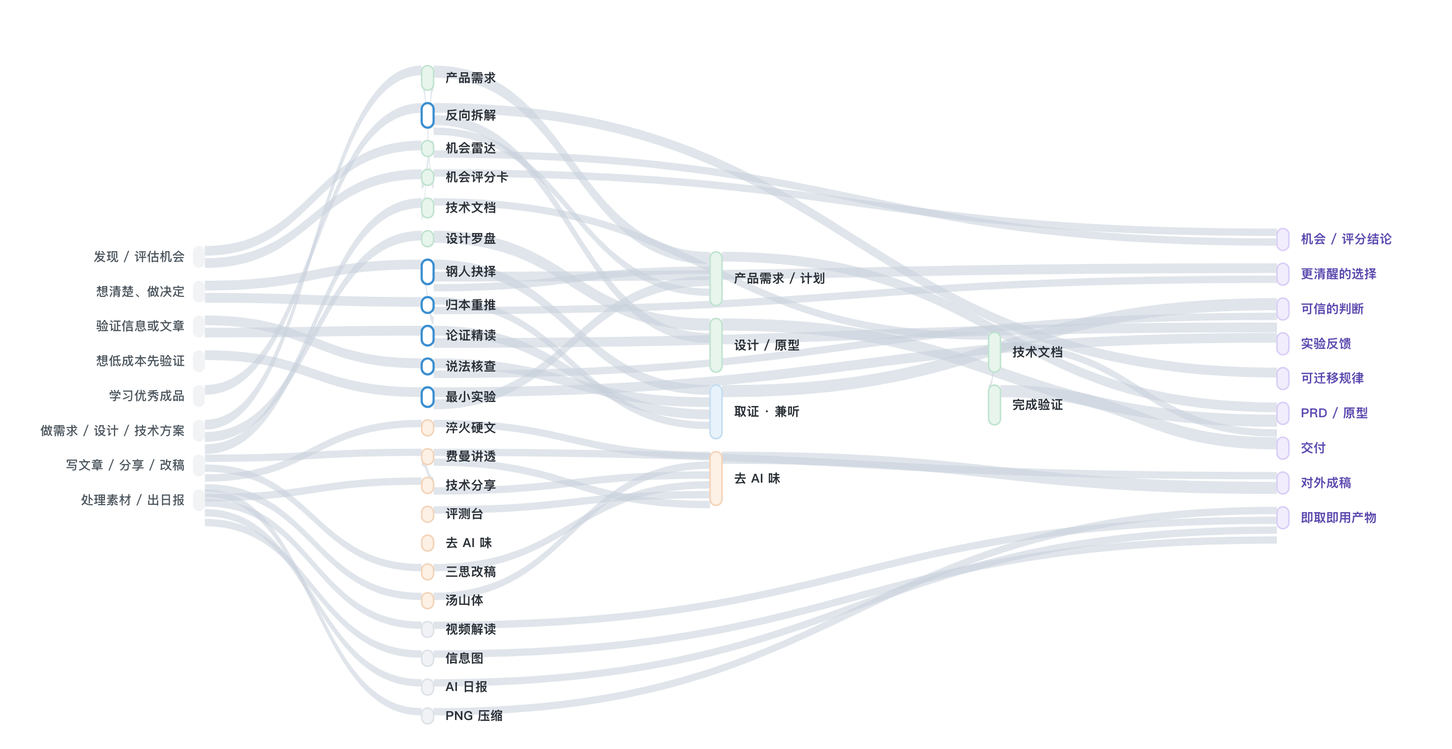
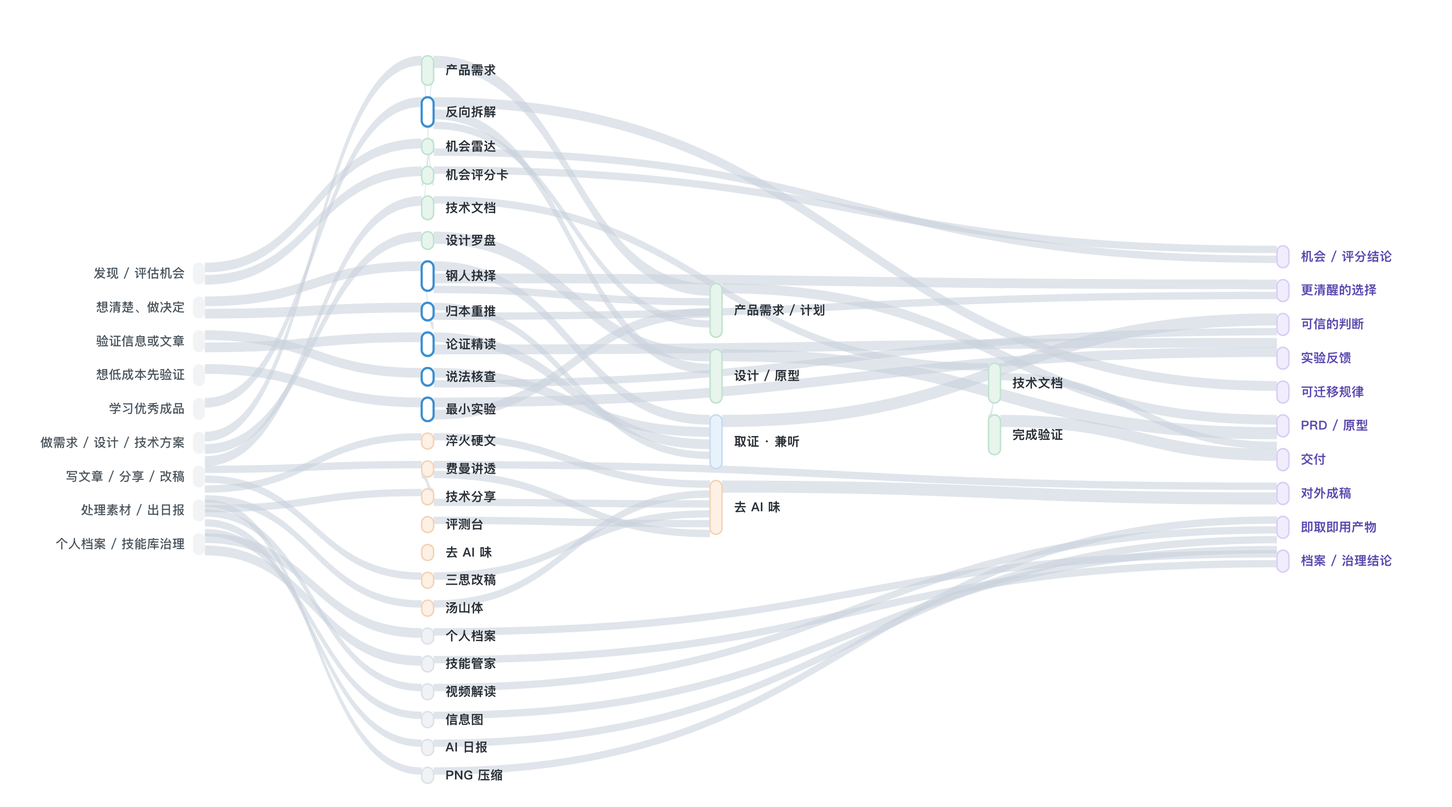
docs(repo): 补全技能图谱节点、修正同步规则文档并修复 README.en 死链

Changed region(s): [[0.0312, 0.0617, 0.9661, 0.9869]]

diff --git a/docs/skill-map.html b/docs/skill-map.html
@@ -110,7 +110,7 @@
 </div>
 
 <div class="layout">
-  <div class="card"><svg id="chart" viewBox="0 0 1460 740"></svg></div>
+  <div class="card"><svg id="chart" viewBox="0 0 1460 810"></svg></div>
   <aside class="aside" id="aside">
     <div class="hint">
       <b>这张图怎么读</b><br>
@@ -136,7 +136,8 @@ function n(o){N[o.id]=o;}
  ['t_learn','学习优秀成品'],
  ['t_build','做需求 / 设计 / 技术方案'],
  ['t_write','写文章 / 分享 / 改稿'],
- ['t_tool','处理素材 / 出日报']
+ ['t_tool','处理素材 / 出日报'],
+ ['t_meta','个人档案 / 技能库治理']
 ].forEach(([id,label])=>n({id,label,d:0,c:'src'}));
 
 // —— 列 2：技能 ——
@@ -152,7 +153,8 @@ function n(o){N[o.id]=o;}
  ['haohao','去 AI 味','write','exist'],['cuihuo','淬火硬文','write','exist'],
  ['tangshan','汤山体','write','exist'],['talk','技术分享','write','exist'],['haohao-eval','评测台','write','exist'],
  ['png','PNG 压缩','util','exist'],['video','视频解读','util','exist'],
- ['briefing','AI 日报','util','exist'],['infographic','信息图','util','exist']
+ ['briefing','AI 日报','util','exist'],['infographic','信息图','util','exist'],
+ ['me-context','个人档案','util','exist'],['skill-library-keeper','技能管家','util','exist']
 ].forEach(([id,label,c,st])=>n({id,label,d:1,c,status:st}));
 
 // —— 列 3：共用枢纽 ——
@@ -171,7 +173,8 @@ n({id:'vdd',label:'完成验证',d:3,c:'prod'});
 [
  ['o_opp','机会 / 评分结论'],['o_decide','更清醒的选择'],['o_truth','可信的判断'],
  ['o_exp','实验反馈'],['o_rule','可迁移规律'],['o_plan','PRD / 原型'],
- ['o_ship','交付'],['o_write','对外成稿'],['o_tool','即取即用产物']
+ ['o_ship','交付'],['o_write','对外成稿'],['o_tool','即取即用产物'],
+ ['o_meta','档案 / 治理结论']
 ].forEach(([id,label])=>n({id,label,d:4,c:'res'}));
 
 // —— 流：[源, 目标, 权重] ——
@@ -185,6 +188,7 @@ e('t_learn','reverse-teardown',2);
 e('t_build','brief',2);e('t_build','compass',2);e('t_build','engineering-docs',2);
 e('t_write','feynman');e('t_write','sansi');e('t_write','cuihuo');e('t_write','tangshan');e('t_write','talk');
 e('t_tool','png');e('t_tool','video');e('t_tool','briefing');e('t_tool','infographic');
+e('t_meta','me-context',2);e('t_meta','skill-library-keeper',2);
 // 产品主干
 e('radar','scorecard');e('scorecard','o_opp');e('radar','o_opp');
 e('scorecard','brief',2);e('brief','hub_brief',3);e('compass','hub_design',3);
@@ -203,10 +207,11 @@ e('reverse-teardown','o_rule',2);e('reverse-teardown','hub_design',2);e('reverse
 e('talk','feynman');e('feynman','o_write');
 ['cuihuo','tangshan','talk','sansi','haohao-eval'].forEach(x=>e(x,'hub_lint'));
 e('feynman','hub_lint');e('hub_lint','o_write',3);
-// 工具
+// 工具与治理
 ['png','video','briefing','infographic'].forEach(x=>e(x,'o_tool'));
+e('me-context','o_meta');e('skill-library-keeper','o_meta');
 
-const COLX=[200,430,720,1000,1290], NW=12, GAP=13, TOP=66, H=690;
+const COLX=[200,430,720,1000,1290], NW=12, GAP=12, TOP=56, H=770;
 Object.values(N).forEach(x=>{x.in=0;x.out=0;});
 E.forEach(({s,t,w})=>{N[s].out+=w;N[t].in+=w;});
 const cols={};Object.values(N).forEach(x=>(cols[x.d]=cols[x.d]||[]).push(x));
@@ -216,11 +221,11 @@ function order(d){ // 同列按簇纵向分组，减少交叉
   const arr=cols[d];
   if(d===1) arr.sort((a,b)=>rank[a.c]-rank[b.c] || a.label.localeCompare(b.label));
   if(d===0) arr.sort((a,b)=>{
-    const w={t_find:0,t_decide:1,t_verify:1,t_try:1,t_learn:1,t_build:2,t_write:3,t_tool:4};
+    const w={t_find:0,t_decide:1,t_verify:1,t_try:1,t_learn:1,t_build:2,t_write:3,t_tool:4,t_meta:5};
     return w[a.id]-w[b.id];});
   if(d===2) arr.sort((a,b)=>rank[a.c]-rank[b.c]);
   if(d===4) arr.sort((a,b)=>{
-    const w={o_opp:0,o_decide:1,o_truth:1,o_exp:2,o_rule:2,o_plan:3,o_ship:3,o_write:4,o_tool:5};
+    const w={o_opp:0,o_decide:1,o_truth:1,o_exp:2,o_rule:2,o_plan:3,o_ship:3,o_write:4,o_tool:5,o_meta:6};
     return w[a.id]-w[b.id];});
 }
 [0,1,2,3,4].forEach(order);
@@ -317,12 +322,12 @@ const DET={
  'minimum-experiment':['挑最致命的一个假设，设计低成本可逆可证伪试错。','把空想变成一周内见分晓的反馈。','拿到本周能做、做砸能退的动作。','怎么算输说不清，或等于先把产品做出来。'],
  'reverse-teardown':['从优秀成品还原结构与关键选择，分清能搬和只适合对方的。','任意环境看到好东西都能带走做法。','能说出"照做3件事"和"千万别搬的点"。','全是"高级/简洁"的夸，没具体改什么。'],
  brief:['把想法/评分转成可验收 PRD、MVP 边界和里程碑。','独立产出能开工的需求计划。','每条功能都有可验证的验收条件。','写成无法验收的愿望清单。'],
- compass:['UI/UX 评审，产出线框、原型和设计规格。','单独完成一轮设计。','原型能点，关键旅程有落点。','只有好看的图，没回答需求落点。'],
+ compass:['内置 9 套高定视觉与原生物理动效工艺包，支持单页直出、盲选与四关评审。','单独完成一轮设计与动效原型。','原型可交互，视觉与动效有统一方向。','只有好看的图，没回答需求落点。'],
  'engineering-docs':['写研发技术方案与决定，按需出图。','独立成文并记录决定代价。','关键决定附事实、假设、代价和回退。','目录全但看不出为什么这么定。'],
  feynman:['一条逻辑链把复杂概念讲透给自己懂。','任意主题讲明白。','外行也能顺着复述。','要点清单和术语堆砌。'],
  sansi:['改成形文档前先通读全文骨架，防补丁式改稿。','小改有投入闸门。','改完全局一致不补丁摞补丁。','只盯一段改，前后矛盾。'],
  haohao:['中文成稿清洗：保事实去机器腔，支持扩展屏蔽表。','对任意成稿 lint。','读着像人写的，事实没丢。','改完没 AI 味但意思也没了。'],
- cuihuo:['技术观点淬成一节一观点的对外硬文。','独立写观点文。','观点立得住、删尽车轱辘话。','气势足但论证空心。'],
+ cuihuo:['把观点写成一节一观点的硬文，或提炼成短手记。','独立写观点文与锻造手记。','观点立得住、删尽车轱辘话。','气势足但论证空心。'],
  tangshan:['面向未来有历史纵深的技术畅想长文。','独立写畅想文。','推演有路径感不喊口号。','宏大词汇堆砌。'],
  talk:['技术分享中长文/演讲稿/slides。','独立做完一场分享。','听众跟得住、有记忆点。','把技术文档念一遍。'],
  'haohao-eval':['盲评、每日召回、门禁评测改稿质量。','独立的改稿评测台。','坏改被召回拦截。','评分指导不了怎么改。'],
@@ -330,6 +335,8 @@ const DET={
  video:['视频转带时间戳关键帧和运动时间线。','任意环境看懂视频。','能定位"第几秒发生了什么"。','只给截图没有时间线。'],
  briefing:['5 分钟 AI/科技日报，事实+判断+机会卡片。','任意环境生成情报简报。','宁缺毋滥、每条有判断。','信息堆砌没有取舍。'],
  infographic:['把关键道理做成"图自己讲清一件事"的信息图。','零依赖渲染高清 SVG/PNG。','图不看正文也能懂那一个点。','装饰配图、图文两张皮。'],
+ 'me-context':['带 L0–L4 敏感分层的可移植个人档案，AI 起草、人确认。','数据与技能分离，跨宿主携带个人背景。','高敏信息默认拦截、档案结构清晰。','未确认擅自写档或泄露高敏层。'],
+ 'skill-library-keeper':['库级治理：准入五问、静态健康体检与外部技能收录裁决。','自动发现技能库位置，零平台强绑定。','新技能不撞车、孤儿与硬绑定被拦下。','未体检就新造轮子或遗漏规则冲突。'],
  hub_proof:['只补会改变决定的外部证据，判冲突、定停止。多个思维技能汇到这里统一取证。','独立做有纪律的检索。','该搜的搜了、冲突解释清、知道何时停。','为全面而乱搜。'],
  hub_brief:['产品需求/计划的汇聚点：评分、钢人结论、实验结果都回流到这里。','—','所有上游判断落成可验收的计划。','判断停在口头，落不了地。'],
  hub_design:['设计/原型汇聚点：反向拆解学来的规律、PRD 都汇到这里。','—','学来的规律真正变成界面。','学归学，做界面时没用上。'],
@@ -357,16 +364,16 @@ const LINE_GUIDE={
    when:'讲透一个概念、改已有稿子、写技术观点硬文、写未来畅想、做技术分享。',
    nodes:[['sansi',1],['feynman',2],['cuihuo',3],['tangshan',3],['talk',3],['haohao-eval',4],['hub_lint',5]],
    branches:[]},
- util:{title:'工具线 · 随取随用',color:'var(--util)',
-   sub:'不参与主流程的独立工具，需要时直接用，直接产出可用产物。',
-   when:'要批量压图、看懂一个视频、出一期 AI 日报、给文章配信息图。',
-   nodes:[['png',1],['video',2],['briefing',3],['infographic',4]],
+ util:{title:'工具与治理线 · 随取随用',color:'var(--util)',
+   sub:'不参与产品主流程的独立工具与个人档案、库级治理技能，需要时直接使用。',
+   when:'要批量压图、看懂视频、出 AI 日报、配信息图、维护个人档案或体检技能库。',
+   nodes:[['png',1],['video',2],['briefing',3],['infographic',4],['me-context',5],['skill-library-keeper',6]],
    branches:[]}
 };
 // 节点在链路上的角色一句话（没有则回退到 DET）
 const LINE_ROLE={
  radar:'扫出有哪些机会/痛点，带来源证据',scorecard:'给想法打分，决定先做哪个',
- brief:'把结论落成可验收的需求和计划',compass:'把需求变成界面原型与设计规格',
+ brief:'把结论落成可验收的需求和计划',compass:'把需求变成高质感界面原型、动效与设计规格',
  'engineering-docs':'形成技术方案与决定，附代价和回退',vdd:'做完前拿出测试/日志等验证证据',
  'reverse-teardown':'从优秀成品学可迁移规律',
  'root-rethink':'怀疑在打补丁时，拆回事实/假设/目标重新推导',
@@ -377,11 +384,13 @@ const LINE_ROLE={
  'minimum-experiment':'用最低成本的可逆实验拿到真实反馈',
  sansi:'改稿前先通读全文骨架，防补丁式改稿',
  feynman:'先把硬概念讲透（也是各文体的讲白助手）',
- cuihuo:'写一节一观点的技术观点硬文',tangshan:'写面向未来的技术畅想长文',
+ cuihuo:'把观点写成一节一观点的硬文，或提炼成短手记',tangshan:'写面向未来的技术畅想长文',
  talk:'做技术分享中长文/演讲稿/slides','haohao-eval':'用盲评和召回给改稿质量把关',
  hub_lint:'共用枢纽：所有成稿统一去机器腔',
  png:'本地批量压缩工程 PNG',video:'把视频转成带时间戳的关键帧',
- briefing:'生成宁缺毋滥的 AI/科技日报',infographic:'把关键道理做成自解释信息图'
+ briefing:'生成宁缺毋滥的 AI/科技日报',infographic:'把关键道理做成自解释信息图',
+ 'me-context':'按 L0–L4 敏感门禁存取可移植个人档案',
+ 'skill-library-keeper':'执行准入五问、全库静态体检与外部技能收录裁决'
 };
 function roleOf(id){return LINE_ROLE[id]||(DET[id]&&DET[id][0])||'';}
 function lineRow(id,idx,branch){
@@ -389,7 +398,7 @@ function lineRow(id,idx,branch){
   const num=branch?'旁':idx;
   return `<div class="lg-row ${branch?'branch':''}" onclick="detail(N['${id}'])">
     <div class="lg-idx" style="background:${branch?'#fff':PAL[x.c][0]};color:${branch?'#8b95a0':'#fff'};border-color:${PAL[x.c][0]}">${num}</div>
-    <div><b>${x.label}</b><span>${branch===true?(LINE_GUIDE[activeLine].branches.find(b=>b[0]==='${id}')||[])[1]||roleOf(id):roleOf(id)}</span></div></div>`;
+    <div><b>${x.label}</b><span>${branch===true?(LINE_GUIDE[activeLine].branches.find(b=>b[0]===id)||[])[1]||roleOf(id):roleOf(id)}</span></div></div>`;
 }
 function renderLine(f){
   activeLine=f;const g=LINE_GUIDE[f];

diff --git a/README.en.md b/README.en.md
@@ -14,19 +14,23 @@ This repository is not a prompt cheat sheet. Each Skill should be a compact piec
 
 | Skill | What it does |
 | --- | --- |
-| [vdd](./skills/vdd/README.en.md) | Verification-driven development: run a verification pass before claiming "done" or "no problem" — no false optimism, no forced nitpicking, and the confidence to say it's fine. |
-| [haohao-shuohua](./skills/haohao-shuohua/README.en.md) | Cleans Chinese writing so it sounds like a person wrote it: keeps facts, removes AI flavor, restores Chinese rhythm, and blocks fake profundity. |
-| [haohao-eval](./skills/haohao-eval/README.en.md) | Evaluates Chinese rewrites with blind judging, daily failure recall, candidate gates, release monitoring, and automatic rollback. |
-| [cuihuo](./skills/cuihuo/README.en.md) | An opinion-hardening engine: turn a technical point into a plain, restrained op-ed with one idea per section, or distill it into a short note. |
-| [tangshan-style](./skills/tangshan-style/README.en.md) | A writing engine for future-facing speculative essays with historical depth and lines worth chewing on. |
-| [feynman-explainer](./skills/feynman-explainer/README.en.md) | Uses the Feynman technique to truly explain hard things: one reasoning chain, derived step by step, so non-experts actually get it. |
-| [opportunity-radar](./skills/opportunity-radar/README.en.md) | Finds product leads in public sources or supplied material, retaining evidence and signal strength. |
-| [opportunity-scorecard](./skills/opportunity-scorecard/README.en.md) | Evaluates product ideas across ten dimensions, with deterministic scoring and verdicts. |
-| [product-brief](./skills/product-brief/README.en.md) | Turns direct requirements or research into a PRD, testable acceptance conditions, and milestones. |
-| [style-compass](./skills/style-compass/README.en.md) | Style Compass: UI/UX aesthetic and motion engine with 9 high-craft visual packs, composable 5-axis craft genome, interactive gallery picking, and full 4-stage review. |
+| [vdd](./skills/vdd/) | Verification-driven development: run a verification pass before claiming "done" or "no problem" — no false optimism, no forced nitpicking, and the confidence to say it's fine. |
+| [haohao-shuohua](./skills/haohao-shuohua/) | Cleans Chinese writing so it sounds like a person wrote it: keeps facts, removes AI flavor, restores Chinese rhythm, and blocks fake profundity. |
+| [haohao-eval](./skills/haohao-eval/) | Evaluates Chinese rewrites with blind judging, daily failure recall, candidate gates, release monitoring, and automatic rollback. |
+| [cuihuo](./skills/cuihuo/) | An opinion-hardening engine: turn an opinion into a plain, restrained essay with one idea per section, or distill it into a short note. |
+| [talk-smith](./skills/talk-smith/) | Technical Talk Smith: crafts technical topics, engineering practice, or project postmortems into engaging articles, talks, or slides. |
+| [tangshan-style](./skills/tangshan-style/) | A writing engine for future-facing speculative essays with historical depth and lines worth chewing on. |
+| [feynman-explainer](./skills/feynman-explainer/) | Uses the Feynman technique to truly explain hard things: one reasoning chain, derived step by step, so non-experts actually get it. |
+| [content-infographic](./skills/content-infographic/) | Content Infographic: turns key article concepts into clear visual infographics and covers anchored tightly to the prose. |
+| [ai-briefing](./skills/ai-briefing/) | Daily AI Briefing: a 5-minute daily AI/tech digest with facts, judgment, and opportunity scores, plus Friday GitHub Trending recaps. |
+| [me-context](./skills/me-context/README.en.md) | Portable personal AI context: stores facts, preferences, and health notes in tiered local Markdown; AI drafts, humans confirm. |
+| [opportunity-radar](./skills/opportunity-radar/) | Finds product leads in public sources or supplied material, retaining evidence and signal strength. |
+| [opportunity-scorecard](./skills/opportunity-scorecard/) | Evaluates product ideas across ten dimensions, with deterministic scoring and verdicts. |
+| [product-brief](./skills/product-brief/) | Turns direct requirements or research into a PRD, testable acceptance conditions, and milestones. |
+| [style-compass](./skills/style-compass/) | Style Compass: UI/UX aesthetic and motion engine with 9 high-craft visual packs, composable 5-axis craft genome, interactive gallery picking, and full 4-stage review. |
 | [engineering-docs](./skills/engineering-docs/README.en.md) | Unified engineering-document entry point for context gathering, co-authoring, technical decisions, diagrams, and implementation validation. |
-| [outside-view](./skills/outside-view/README.en.md) | Retrieves evidence only when it can change a decision, resolves conflicts, and stops unproductive research. |
-| [sansi-erhouxing](./skills/sansi-erhouxing/README.en.md) | Think before you edit: read the whole skeleton of an existing document before changing it, instead of patching one paragraph at a time. |
+| [outside-view](./skills/outside-view/) | Retrieves evidence only when it can change a decision, resolves conflicts, and stops unproductive research. |
+| [sansi-erhouxing](./skills/sansi-erhouxing/) | Think before you edit: read the whole skeleton of an existing document before changing it, instead of patching one paragraph at a time. |
 | [reverse-teardown](./skills/reverse-teardown/README.en.md) | Reverse-tear down a strong artifact into its structure and key choices, separate transferable rules from context-only details, and output an action checklist plus a minimum experiment. |
 | [steelman-choice](./skills/steelman-choice/) | Steelman choice: when two options both sound right, build each side at its strongest (Principle of Charity), surface the real disagreement and one decision-flip question before choosing. |
 | [claim-check](./skills/claim-check/) | Claim check: split a discrete claim into fact/inference/value, verify facts on a five-level credibility scale, then audit the reasoning chain. |
@@ -39,10 +43,10 @@ This repository is not a prompt cheat sheet. Each Skill should be a compact piec
 
 The collection can be read as four capability groups:
 
-- **Judgment and verification**: VDD, outside-view, haohao-eval, steelman choice, claim check, and argument reading.
-- **Product formation**: opportunity radar, opportunity scorecard, product brief, style compass, and reverse teardown (learning from artifacts).
-- **Engineering delivery**: engineering docs, PNG compression, and video reader.
-- **Writing**: haohao-shuohua, cuihuo, tangshan-style, Feynman explainer, and sansi-erhouxing.
+- **Judgment and verification**: VDD, outside-view, haohao-eval, steelman choice, claim check, argument reading, skill-library-keeper, and AI briefing.
+- **Product formation**: opportunity radar, opportunity scorecard, product brief, style compass, reverse teardown, root rethink, and minimum experiment.
+- **Engineering delivery**: engineering docs, PNG compression, video reader, and portable personal context (me-context).
+- **Writing**: haohao-shuohua, cuihuo, talk-smith, tangshan-style, Feynman explainer, sansi-erhouxing, and content infographic.
 
 Each README explains capabilities, usage, design rationale, evaluation evidence, and boundaries. `SKILL.md` is the execution entry read by the agent. Complex Skills add references, scripts, templates, or runtime assets as needed.
 
@@ -102,27 +106,32 @@ Keep each Skill directory intact. Do not copy only `SKILL.md`, because some Skil
 ├── README.md
 ├── README.en.md
 └── skills/
-    ├── vdd/
-    ├── haohao-shuohua/
-    ├── haohao-eval/
+    ├── ai-briefing/
+    ├── argument-reading/
+    ├── claim-check/
+    ├── content-infographic/
     ├── cuihuo/
-    ├── tangshan-style/
+    ├── engineering-docs/
     ├── feynman-explainer/
+    ├── haohao-eval/
+    ├── haohao-shuohua/
+    ├── me-context/
+    ├── minimum-experiment/
     ├── opportunity-radar/
     ├── opportunity-scorecard/
-    ├── product-brief/
-    ├── style-compass/
-    ├── engineering-docs/
     ├── outside-view/
-    ├── sansi-erhouxing/
+    ├── png-compress/
+    ├── product-brief/
     ├── reverse-teardown/
-    ├── steelman-choice/
-    ├── claim-check/
-    ├── argument-reading/
     ├── root-rethink/
-    ├── minimum-experiment/
-    ├── video-reader/
-    └── png-compress/
+    ├── sansi-erhouxing/
+    ├── skill-library-keeper/
+    ├── steelman-choice/
+    ├── style-compass/
+    ├── talk-smith/
+    ├── tangshan-style/
+    ├── vdd/
+    └── video-reader/
 ```
 
 Each Skill directory uses `SKILL.md` as its entry point; some also ship `references/`, `scripts/`, or `assets/`.

diff --git a/docs/SKILL-MAP.md b/docs/SKILL-MAP.md
@@ -8,11 +8,11 @@
 - 每个技能都是**自包含的 SKILL.md 文件夹**，只依赖宿主的通用能力（读写、检索、对话）。装到任意宿主、任意 AI 环境都应独立成立。
 - 某些宿主提供工程反馈闭环、完成门禁、插件化运行时或流程插点——这些只是**可选增强场景，不是依赖**：技能可被这些流程按需加载，但删掉这些环境后技能依然能用。
 - 写技能时：引用同库或外部技能用「该类方法」的中性描述，不写死任何宿主专属技能名、命令或工具；需要外部能力时写「若宿主具备则用」，不具备就降级。
-- 技能仓是唯一权威源，分发到各处由 `tools/sync_skills.py` 统一完成（见第 6 节）。
+- 技能仓是唯一权威源，分发到各处由 `tools/sync_skills.py` 统一完成（见第 5 节）。
 
 ## 1. 这张图怎么用（新增 / 修改技能时先过这里）
 
-每次新增或改技能，对照第 4 节清单检查；技能表与关系图必须同步更新（中英文 README 一致）。六个思维型技能的触发感知与好坏判别统一见 [思维技能质量判别卡](./SKILL-QUALITY-CARD.md)。"还缺什么、能不能补"不凭感觉，走 [缺口体检](./SKILL-GAP-AUDIT.md)。
+每次新增或改技能，对照第 4 节清单检查；技能表与关系图必须同步更新（中英文 README 一致）。七个思维型技能的触发感知与好坏判别统一见 [思维技能质量判别卡](./SKILL-QUALITY-CARD.md)。"还缺什么、能不能补"不凭感觉，走 [缺口体检](./SKILL-GAP-AUDIT.md)。
 
 ## 2. 技能总表（按思考/工作链分簇）
 
@@ -46,7 +46,7 @@
 > - **steelman-choice（钢人抉择）**：出自论证伦理里的 **Principle of Charity（善意原则）**与 **Steelman Argument（钢人论证）**——批评对方前，先把对方观点重建到它最强的样子（对应「稻草人」的反面）。白话：A/B 都有理时，不允许各夸一句就选，必须先把两边各自最难反驳的理由摆出来，逼出真正的分歧和那个「拿到答案就能翻盘」的事实，再让你拍板。
 > - **root-rethink（归本重推）**：出自亚里士多德的 **First Principles（第一性原理，现代常以马斯克的用法知名）**——把结论拆回不能再拆的基本事实，与习惯继承但未验证的假设分开，再从事实重新推导；跨域借解是它失效后的第二招。白话：停止在旧方案上打补丁，问「如果从零开始，只按已知事实和约束，该怎么做」。
 > - **claim-check（说法核查）**：脱胎于事实核查（Fact-checking）与笛卡尔式系统怀疑。白话：先分清一句话里哪些是事实、哪些是推论、哪些是立场，只去验事实，再查推论跳没跳步。
-> - **argument-reading（论证精读）**：拟从平台批判性阅读技能炼化（去平台绑定、去默认飞书交付），是 claim-check 的「整篇文章」版本。
+> - **argument-reading（论证精读）**：已从批判性阅读方法炼化（去平台绑定与默认特定文档交付），是 claim-check 的「整篇文章」版本。
 
 ### 簇 C · 中文写作与表达（输入型与输出型边界清晰）
 
@@ -54,7 +54,7 @@
 | --- | --- | --- |
 | ✅ feynman-explainer | 把概念讲透给自己懂（输入型，逻辑链非清单） | 任意环境讲透复杂事物 |
 | ✅ haohao-shuohua | 清洗 AI 中文文本（保事实去 AI 味） | 任意成稿 lint |
-| ✅ cuihuo | 把技术观点淬成对外硬文（输出型） | 独立写观点文 |
+| ✅ cuihuo | 把一个观点写成平实克制、一节一观点的硬文，或提炼成短手记 | 独立写观点文与锻造手记 |
 | ✅ tangshan-style | 面向未来的技术畅想长文（输出型） | 独立写畅想文 |
 | ✅ sansi-erhouxing | 改稿前先读全文骨架（前置动作技能） | 防止补丁式改稿 |
 | ✅ haohao-eval | 用盲评/召回评测中文改稿质量 | 独立评测台，支撑 haohao 迭代 |
@@ -79,6 +79,12 @@
 | ✅ ai-briefing | 5 分钟读完的 AI/前沿科技日报（事实+判断+机会分卡片） | 任意环境生成情报简报，渠道与交付走 config 适配，技能本体无内部端点 |
 | ✅ content-infographic | 把文章关键道理做成「图自己讲清一件事」的信息图，不做装饰配图 | 零依赖渲染器出高清 SVG/PNG，图文必须对账 |
 | ✅ talk-smith | 把技术主题做成给别人讲的分享文/演讲稿/slides | 独立完成技术分享，硬概念可反向调 feynman 讲白 |
+
+### 簇 G · 库级治理（准入、体检与外部技能收录）
+
+| 技能 | 唯一解决的问题 | 独立收益 |
+| --- | --- | --- |
+| ✅ skill-library-keeper | 在技能库视角决定要不要建新技能、查撞车/孤儿/硬绑定、评估外部技能直接用/炼化/重造 | 自动发现技能库位置，零平台绑定直接体检与把关 |
 
 ## 3. 配合关系（谁在什么时候调谁）
 
@@ -131,7 +137,7 @@
 - **唯一权威源**：本仓库 `skills/`。
 - **白名单**：`tools/skills-manifest.json`，只含用户自有、可迁移、可公开的技能；排除公司内部技能、第三方安装技能、强个人化项目技能。
 - **同步命令**：本机路径写在 git 忽略的 `tools/sync.local.json`；`python3 tools/sync_skills.py` 预览，`--apply` 写入。可移植说明见 [SKILL-SYNC](./SKILL-SYNC.md)。
-- 同步目标：本机配置的各技能运行目录与发布 zip 目录。目标有源外独有改动时标 ALERT，先备份再覆盖，不丢东西。
+- 同步目标：本机配置的各技能运行目录与发布 zip 目录。目标有源外独有改动时标 ALERT；脚本不做自动备份（唯一备份是 Git），请先回灌 Git 或手动备份后再用 `--apply` 覆盖。
 - 规则：在权威源改技能后默认跑一次同步，不需要再次提醒。
 
 ## 6. 本轮裁定记录（来源：12 个外部 Prompt + 1 个协作指令）
@@ -139,4 +145,4 @@
 - 独立新建（已建待盲测）：steelman-choice、claim-check、argument-reading、root-rethink、minimum-experiment。
 - 缓建：socratic-clarify（P2，触发两次真需求再建）；纵横分析法（框架留档，不单建）。
 - 不建：专家会诊（通用部分并入 steelman-choice）；乔哈里视窗（常驻姿态，归宿主偏好层）；天赋挖掘/人生设计（用户拍板放弃，意义不大）；双层解释（与 feynman「脚手架不印成品」冲突）。
-- 新技能已完成对抗式静态自检（稻草人/假平衡/来源编造/触发撞车/环境绑定），发布前仍须过三关：触发盲测（≥85%、零抢触发）、真实样本端到端、对抗软肋；5 维评分任一 <8 才算真正发布。
+- 新技能已完成对抗式静态自检（稻草人/假平衡/来源编造/触发撞车/环境绑定），发布前仍须过三关：触发盲测（≥85%、零抢触发）、真实样本端到端、对抗软肋；5 维评分全部 ≥8（任一 <8 即拦截）才算真正发布。

diff --git a/docs/SKILL-MAP.en.md b/docs/SKILL-MAP.en.md
@@ -25,7 +25,7 @@ Status: ✅ available　🆕 built, pending blind test　⏸ deferred　❌ reje
 | ✅ opportunity-radar | Find opportunities with sourced evidence | domain/material → candidates+evidence | One-off opportunity scan | Start of a product workflow |
 | ✅ opportunity-scorecard | Score one idea, script-generated | idea+evidence → 10-dim score | Runs independently | Evaluation node of a product workflow |
 | ✅ product-brief | Turn idea into verifiable PRD/plan | need/scorecard → PRD+milestones | Writes PRDs alone | Definition node of a product workflow |
-| ✅ style-compass | UI design and prototypes | need → wireframes/prototype/spec | Independent design review | Design node of a product workflow |
+| ✅ style-compass | UI design, motion packs and prototypes | need → aesthetic direction/prototype/spec | Independent design & motion review | Design node of a product workflow |
 | ✅ engineering-docs | Engineering docs and decisions | context → doc+diagrams | Writes docs alone | Connects to environments with engineering verification |
 | 🆕 reverse-teardown | Learn transferable rules from one external artifact | artifact+goal → rules/context-only/checklist/minimum experiment | Learn from any artifact anywhere | Can mount on any "solution review / design reference" flow point |
 
@@ -46,7 +46,7 @@ Status: ✅ available　🆕 built, pending blind test　⏸ deferred　❌ reje
 
 ### Cluster C · Chinese writing (input-type vs output-type boundaries)
 
-✅ feynman-explainer (understand a concept), haohao-shuohua (de-AI lint), cuihuo (opinion essay), tangshan-style (speculative essay), sansi-erhouxing (read full skeleton before editing), talk-smith (talks/slides), haohao-eval (blind evaluation/recall).
+✅ feynman-explainer (understand a concept), haohao-shuohua (de-AI lint), cuihuo (opinion essay or short note), tangshan-style (speculative essay), sansi-erhouxing (read full skeleton before editing), haohao-eval (blind evaluation/recall).
 
 ### Cluster D · Data & engineering execution
 
@@ -59,6 +59,10 @@ Status: ✅ available　🆕 built, pending blind test　⏸ deferred　❌ reje
 ### Cluster F · Information & content production
 
 ✅ ai-briefing (5-minute AI/tech daily brief, fact/judgment/opportunity cards; channels via config, no internal endpoints in the skill body); content-infographic (deterministic infographics where the image itself makes one point; zero-dependency SVG/PNG renderer); talk-smith (technical talks and slides).
+
+### Cluster G · Library governance
+
+✅ skill-library-keeper (five-question admission gate for new skills, static health audit across collisions/orphans/hard bindings, use/distill/rebuild intake decisions; auto-discovers the library path with zero platform lock-in).
 
 ## 3. Collaboration
 

diff --git a/docs/SKILL-QUALITY-CARD.md b/docs/SKILL-QUALITY-CARD.md
@@ -1,6 +1,6 @@
 # 思维类技能 · 怎么感知它触发了没有、做得好不好
 
-> 适用：reverse-teardown、steelman-choice、claim-check、argument-reading、root-rethink、minimum-experiment 这六个"思考型"技能。
+> 适用：reverse-teardown、steelman-choice、claim-check、argument-reading、root-rethink、minimum-experiment、outside-view 这七个"思考型"技能。
 > 它们不像"去 AI 味"那样有一眼可见的成品差异，所以约定两个可感知信号：**触发宣告**和**收口改变**。
 
 ## 一、怎么知道它触发了
@@ -12,7 +12,7 @@
 例：`〔思考：钢人抉择〕先把 Leanback 自研焦点两条路各自立到最强，再找那个能翻盘的事实。`
 
 - 你看到这行，就知道是哪个技能在工作、它打算干嘛；没看到却觉得它本该用，说明**没触发**（见第三节反馈方式）。
-- 宣告只在真正按该技能完整流程走时出现；一句话快答、顺带一提不贴标签。
+- 宣告只在真正按该技能完整流程走时出现；一句话快答、顺带一提不贴标签。`outside-view` 独立调用时输出 `〔思考：兼听 · QUICK/DEEP〕`，作为其他技能底座或 `DIRECT` 轻问题时静默。
 
 ## 二、怎么判断做得好不好（不用懂术语，看"下一步变没变"）
 
@@ -26,8 +26,9 @@
 | **argument-reading** | 看懂文章哪步推理断了、藏了什么前提 | 变成文章摘要/复述；或只顾挑刺，没先说它哪里说得对 |
 | **root-rethink** | 看清旧方案在掩盖哪个真问题，新思路每步有事实支撑 | 一堆"回归本质/打破常规"口号，落不到具体动作；为不同而不同 |
 | **minimum-experiment** | 拿到一个这周就能做、做砸也能退的小动作，且知道什么结果就停 | 实验怎么算输说不清；等于让你先把整个产品做出来；事后才能改标准 |
+| **outside-view** | 只补会改变决定的外部证据，标清来源强弱、共识/反例与停止条件 | 为搜而搜堆砌链接；离线或没工具硬编结论；不区分一手来源和二手转述 |
 
-**一个通用的坏味道（六个都适用）**：输出很长很全，但你读完还是不知道"那我现在该干嘛"——这就是失败，可以直接要求重做。
+**一个通用的坏味道（七个都适用）**：输出很长很全，但你读完还是不知道"那我现在该干嘛"——这就是失败，可以直接要求重做。
 
 ## 三、你不用判断归因，只要给一个信号
 

diff --git a/docs/SKILL-SYNC.md b/docs/SKILL-SYNC.md
@@ -5,7 +5,7 @@
 ## 用法
 
 ```bash
-# 1) 首次：复制配置模板，填入本机的技能运行目录、zip 目录、备份目录
+# 1) 首次：复制配置模板，填入本机的技能运行目录、zip 目录
 cp tools/sync.example.json tools/sync.local.json
 
 # 2) 预览差异（不写入）
@@ -18,7 +18,7 @@ python3 tools/sync_skills.py --apply
 - `tools/sync.local.json` 已被 git 忽略，不同机器各填各的，不进入公开仓。
 - 白名单在 `tools/skills-manifest.json`：只同步其中的自有技能；运行目录里的公司内部/第三方技能一律不碰。
 - 同步会排除 `.git .deps __pycache__ .pytest_cache *.pyc .DS_Store` 和悬空符号链接。
-- 若某目标存在权威源里没有的文件（可能在该目录直接改过没回灌），会标 `ALERT`；`--apply` 时先整体备份到 `backup_root/<时间戳>/` 再覆盖，不会静默丢东西。
+- 若某目标存在权威源里没有的文件（可能在该目录直接改过没回灌），会标 `ALERT`；脚本本身不创建自动备份目录（唯一备份是 Git 历史），`--apply` 会直接覆盖并清理这些源外文件，请先回灌 Git 或手动备份再写入。
 - 新增技能后：放进 `skills/<name>/`，在 manifest 加一行，跑一次同步即可。
 
 ## 手动安装到任意宿主

diff --git a/docs/SKILL-GAP-AUDIT.md b/docs/SKILL-GAP-AUDIT.md
@@ -1,7 +1,7 @@
 # 技能体系缺口体检
 
 > 用法：这是从**全局流向图**反推"还缺什么"的体检，不是看到一个好 prompt 就想加技能。
-> 基线：2026-10-22，25 个技能、4 个共用枢纽、9 类产出。配合 [流向图](./skill-map.html) 一起看。
+> 基线：2026-10-22，26 个技能（含 `skill-library-keeper`）、4 个共用枢纽、10 类产出。配合 [流向图](./skill-map.html) 一起看。
 
 ## 判定原则（准入五问，由 skill-library-keeper 统一执行）
 
@@ -23,7 +23,7 @@
 | 实验反馈 只有「最小实验」一个来源 | 单点 | 职责本就单一，**不算缺口** |
 | 可迁移规律 只有「反向拆解」一个来源 | 单点 | 同上，**不算缺口** |
 | 交付 只有「完成验证」收口 | 单点 | 这是唯一收口点，正确，**不算缺口** |
-| 最宽枢纽：去 AI 味汇入 6、取证 4、产品需求 4 | 高负载 | 是体系枢纽不是缺口；但取证单点依赖检索能力，离线时已在 claim-check 内做降级 |
+| 最宽枢纽：去 AI 味汇入 6、取证 4、产品需求 4 | 高负载 | 是体系枢纽不是缺口；但取证单点依赖检索能力，离线时已在 `outside-view` 与 `claim-check` 内做降级 |
 
 ## 二、确认缺口
 
